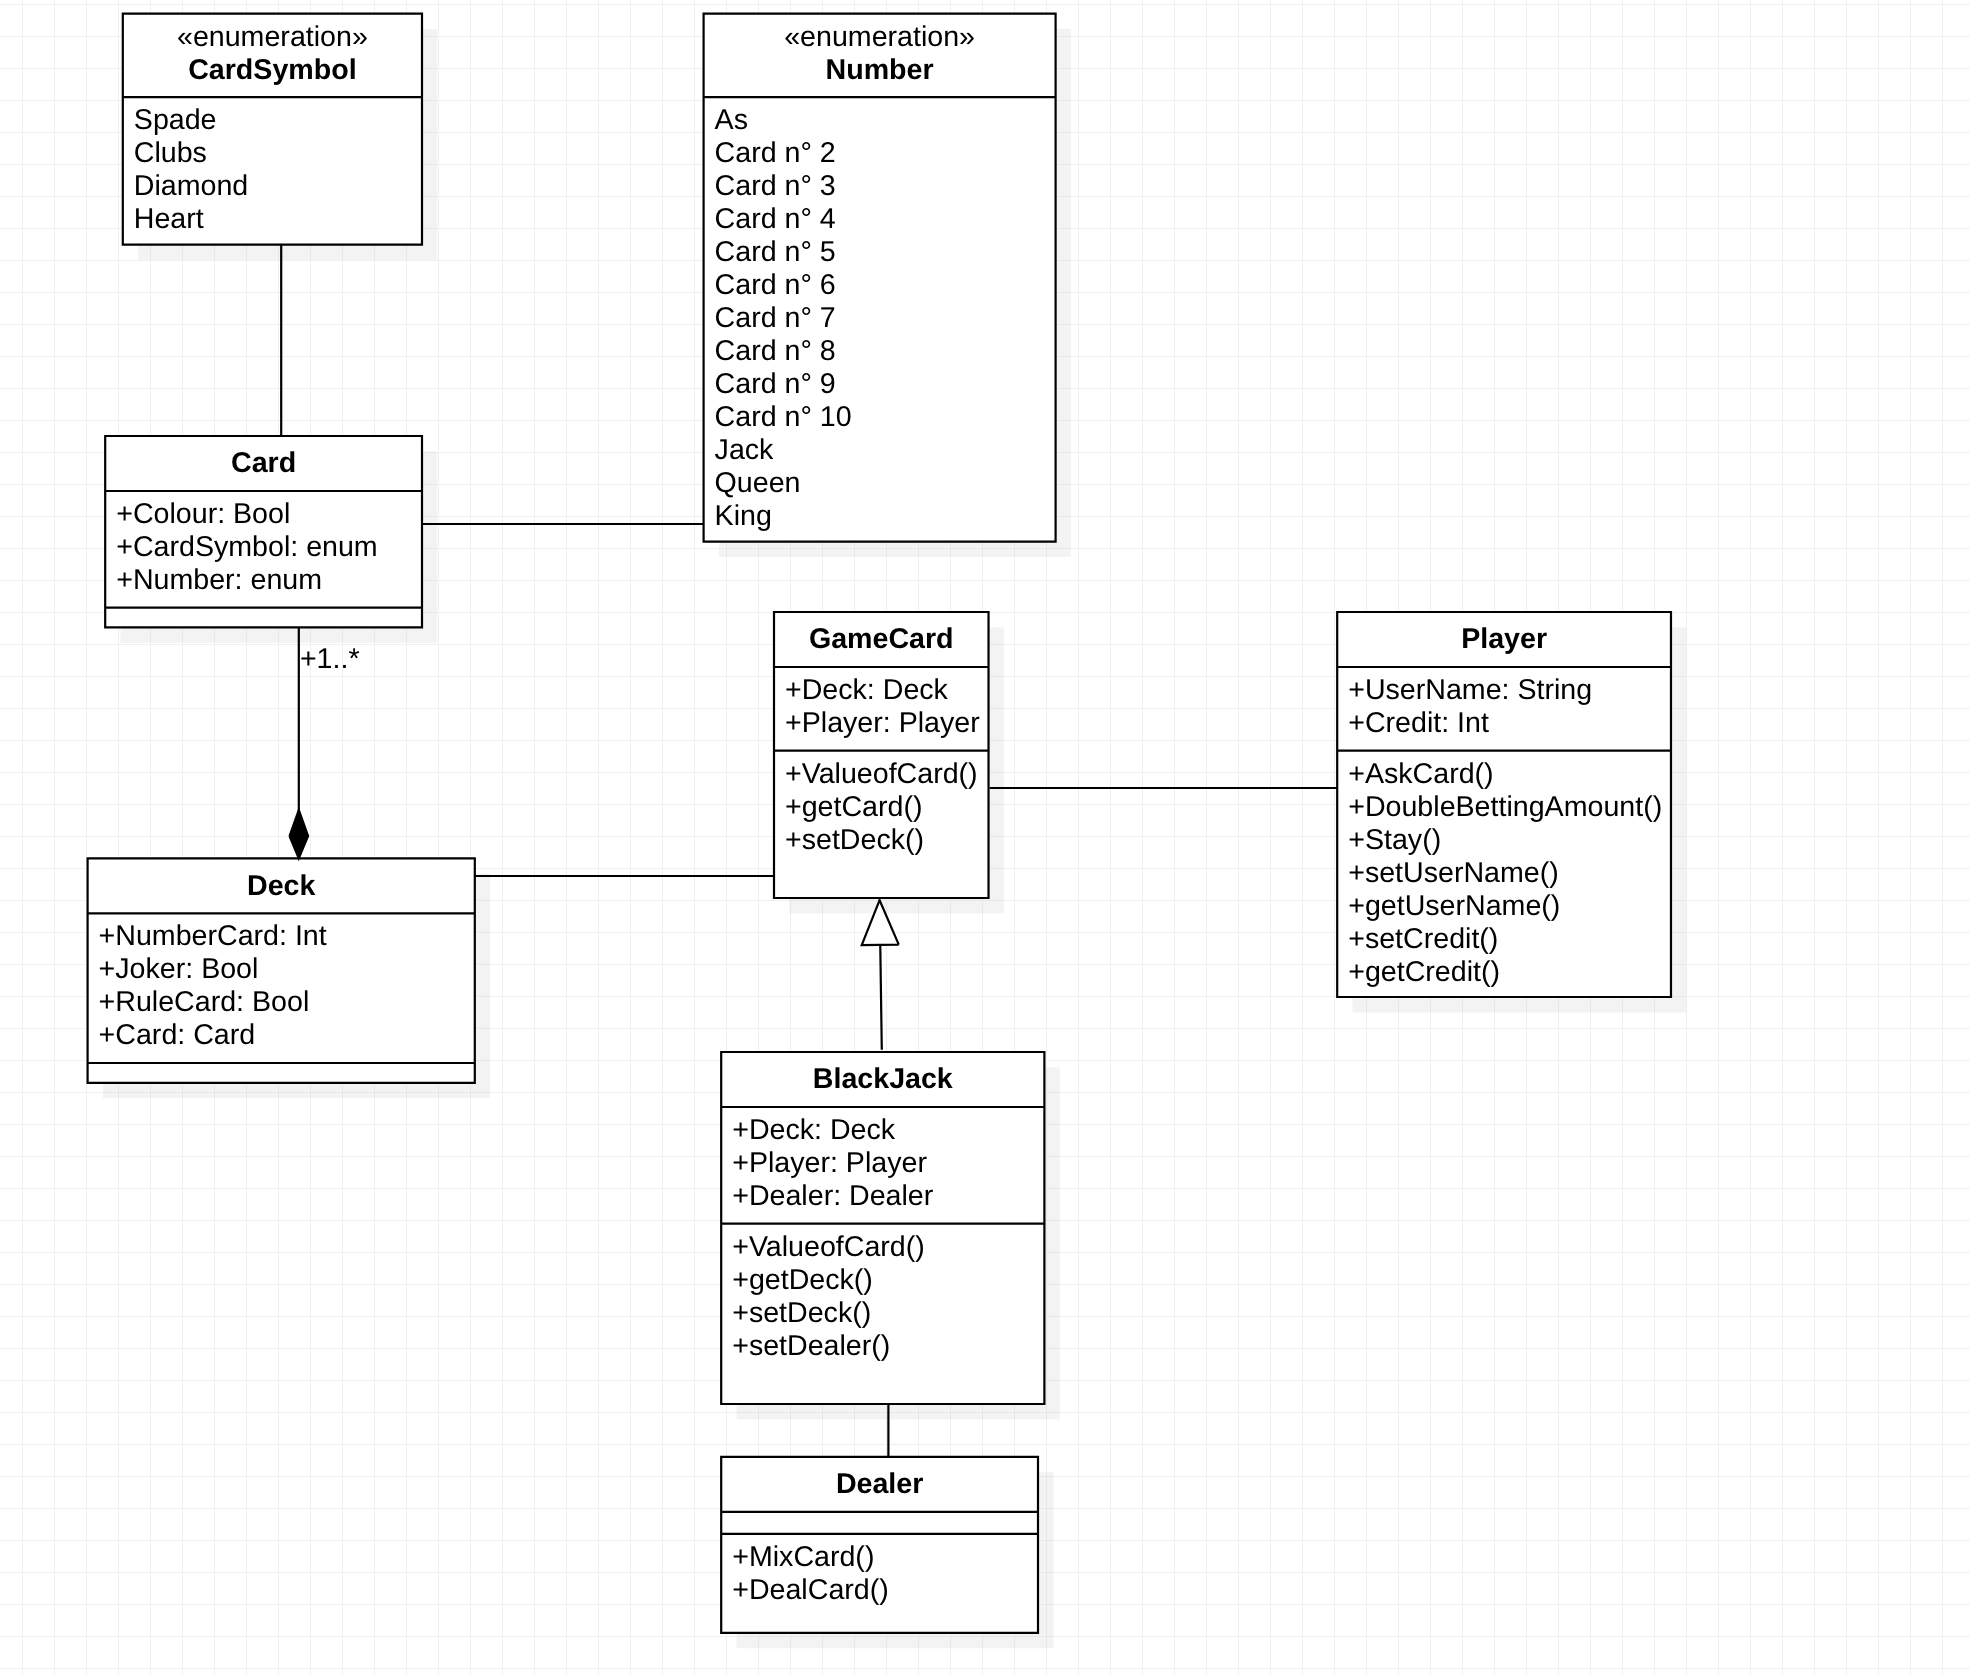
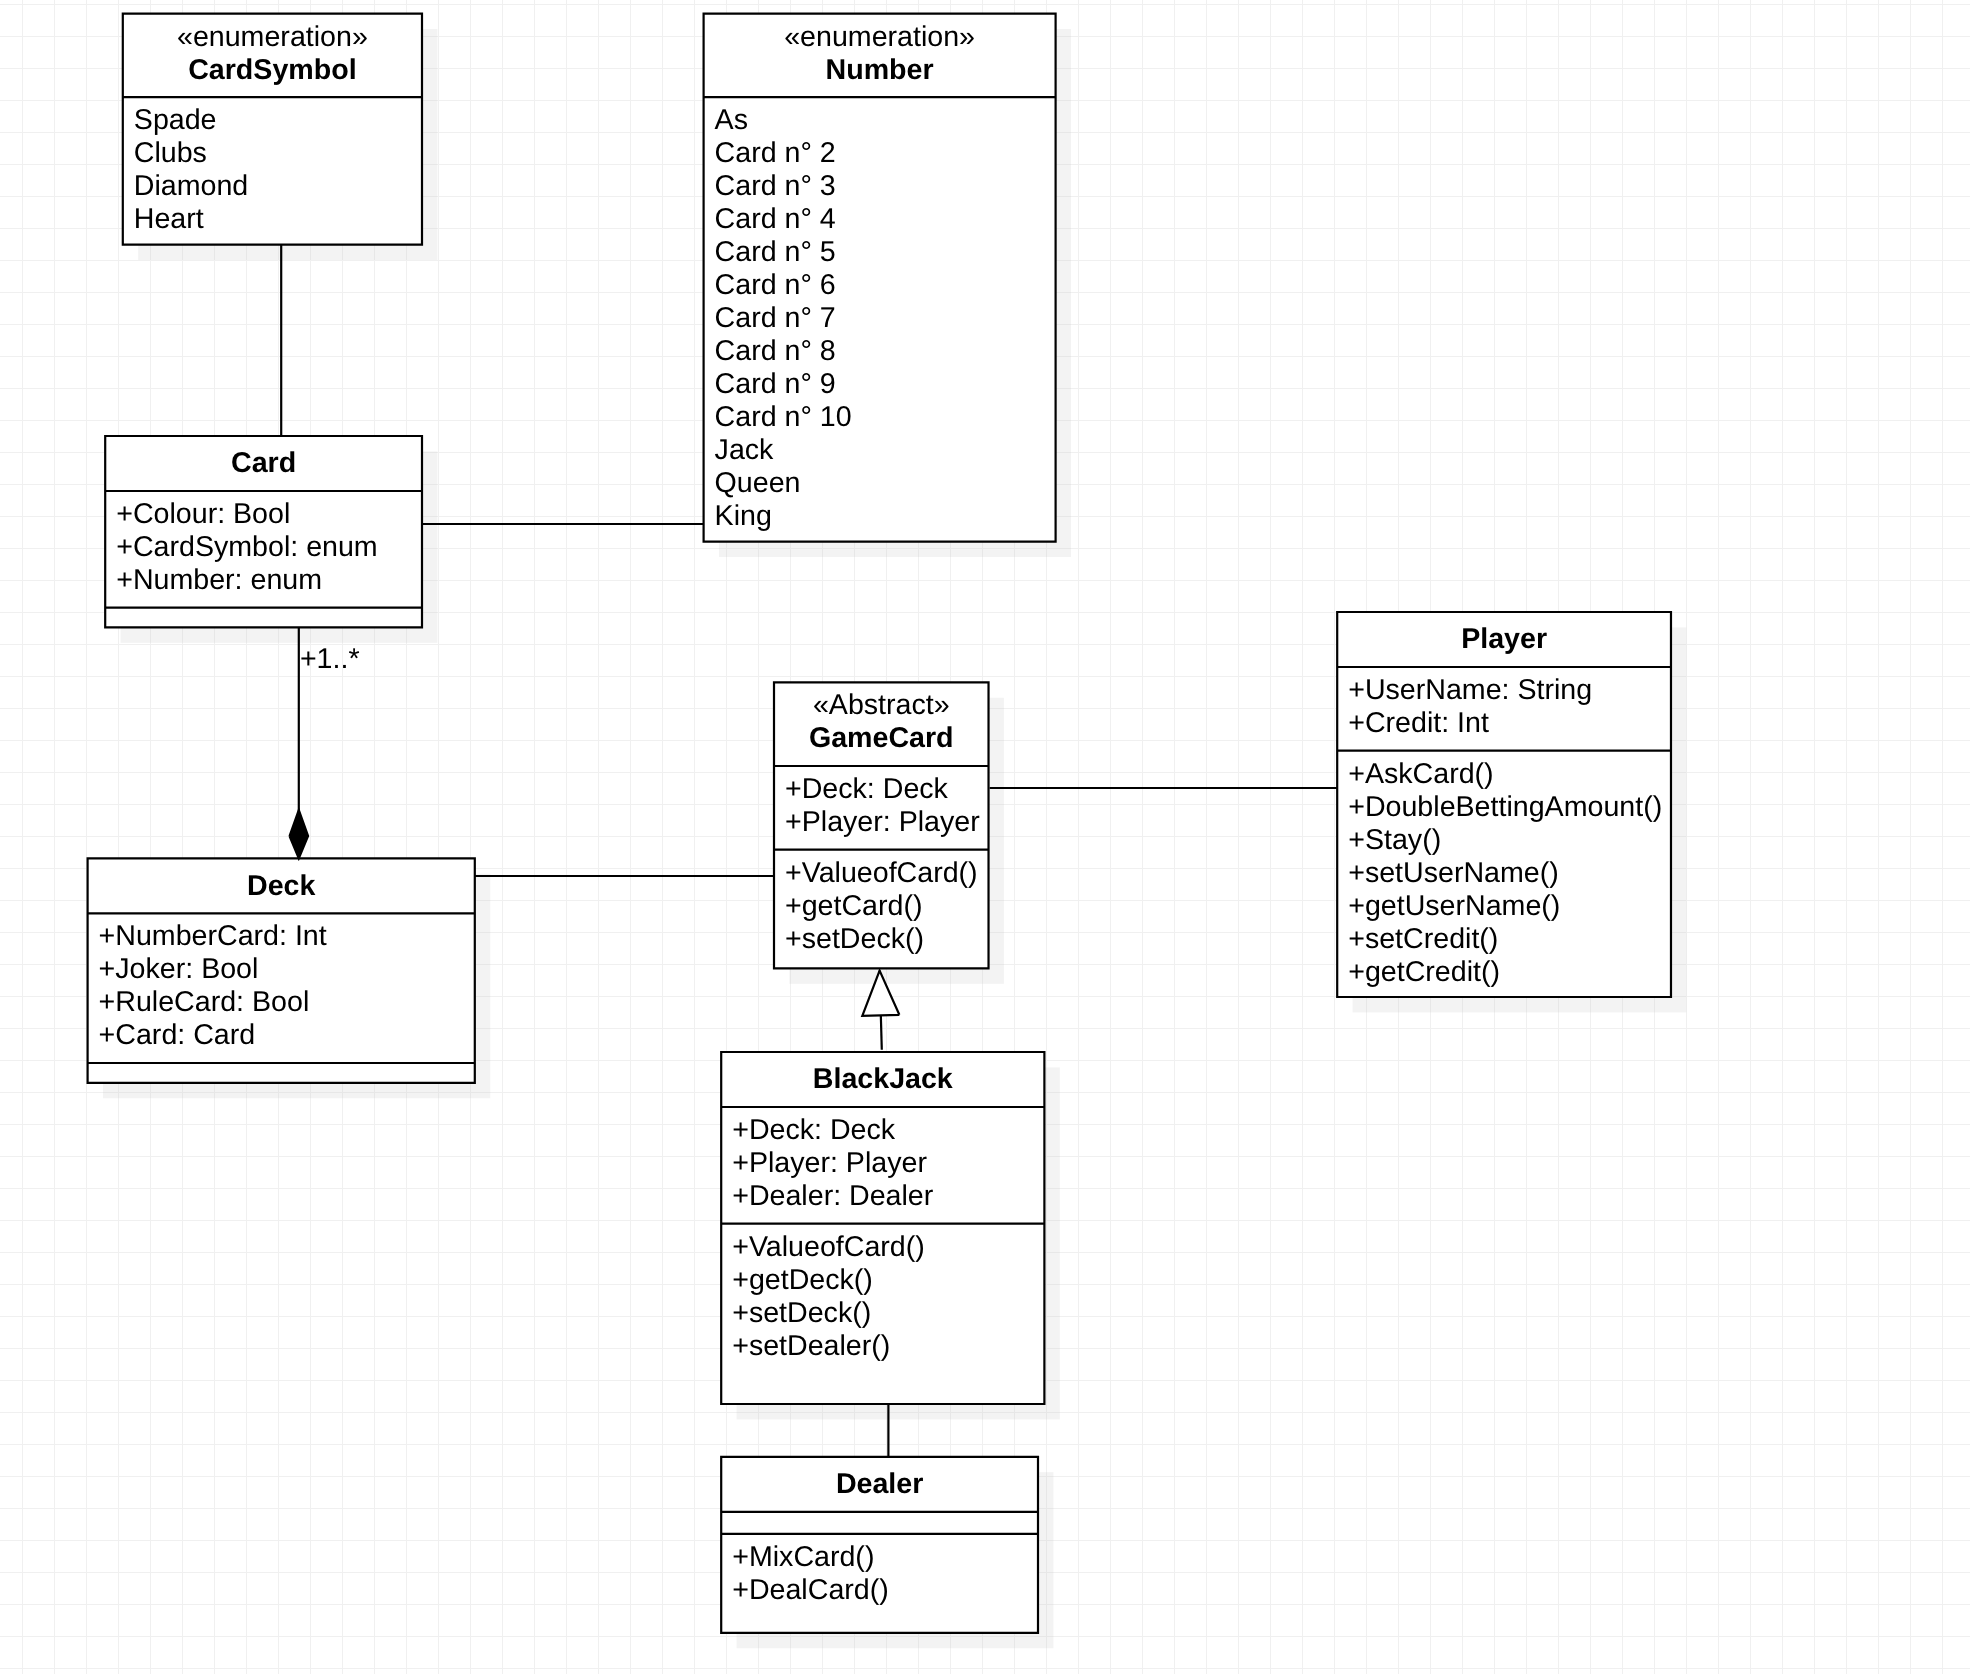
ReadMe 1st Exo

Changed region(s): [[0.4025, 0.3728, 0.4954, 0.6213]]

diff --git a/README.md b/README.md
@@ -2,16 +2,22 @@ UML README 🚀
 # Exo 1
 Notre diagramme de class est composé de 5 class : 
 - Card : Qui utilise des enumération : 
+
     - CardSymbols : Qui correspond au différents symboles que la "Card" peut avoir
     - Number : Qui correspond au différentes valeurs que la "Card" que la carte peut avoir
 
 - Deck : Qui est composé de plusieurs "Card"
-- GameCard : Nous permet de créer un jeu de carte génerique (des regles partagées par tout les jeux de cartes.) Game Card est en association avec "Player" ainsi que "Deck"
-- BlackJack : Qui est en association avec "Dealer" et en héritage de GameCard
+
+- GameCard : Nous permet de créer un jeu de carte universel (des regles partagées par tout les jeux de cartes) Game Card est en association avec "Player" ainsi que "Deck"
+Puisque GameCard est une class abstraite, GetCardValue sera à redéfinir pour chaque dans chaque class fille afin d'attribuer la valeur pour chaque card du Deck
+
+- BlackJack : Qui est en association avec "Dealer" et hérite de "GameCard"
+
 - Player : Qui effectue les opérations demandées
+
 - Dealer : Qui effectue les opérations demandées
 
-La Class "BlackJack" est la class principale, "BlackJack" utilise les autre class pour mettre en oeuvre le jeu
+La Class "GameCard" est la class principale, en héritant de "GameCard" , "BlackJack" utilise les autres class pour mettre en oeuvre le jeu.
 
 ![Screenshot](Images/DeckofCards.png)
 
@@ -19,4 +25,5 @@ La Class "BlackJack" est la class principale, "BlackJack" utilise les autre clas
 
 Notre Diagramme de class est composé de 5 class:
 
-- Client : Qui est en association avec "CenterCall"
+- Client : Qui est en association avec "Call Center"
+- Call Center : Qui est en association avec la liste des Employés "Employees"
